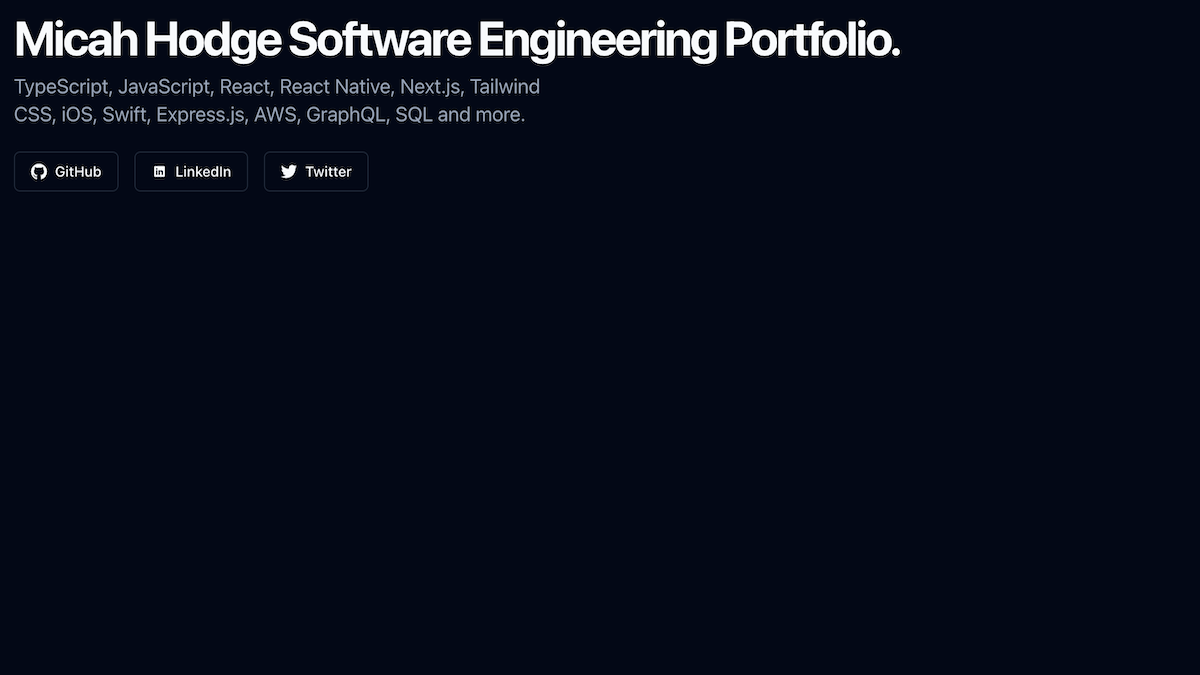
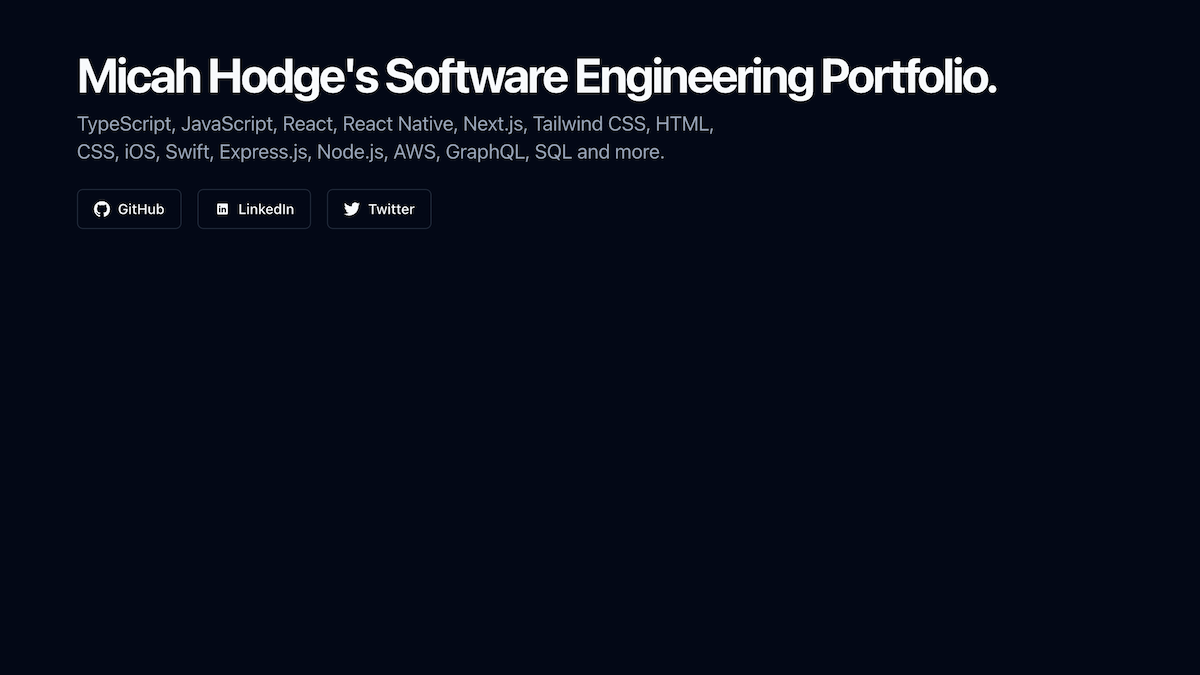
Updating title and og image

Changed region(s): [[0.0, 0.0311, 0.8325, 0.3422]]

diff --git a/src/app/page.tsx b/src/app/page.tsx
@@ -14,10 +14,11 @@ export default function IndexPage() {
   return (
     <main className="container relative">
       <PageHeader className="pb-8">
-        <PageHeaderHeading>Software Engineering Portfolio.</PageHeaderHeading>
+        <PageHeaderHeading>Full-Stack Software Engineering.</PageHeaderHeading>
         <PageHeaderDescription>
           TypeScript, JavaScript, React, React Native, Next.js, Tailwind CSS,
-          iOS, Swift, Express.js, AWS, GraphQL, SQL and more.
+          HTML, CSS, iOS, Swift, Express.js, Node.js, AWS, GraphQL, SQL and
+          more.
         </PageHeaderDescription>
         <div className="flex w-full flex-wrap items-center gap-4 pt-4">
           <Link

diff --git a/src/app/layout.tsx b/src/app/layout.tsx
@@ -23,13 +23,18 @@ export const metadata: Metadata = {
     "React",
     "React Native",
     "Next.js",
+    "Tailwind CSS",
+    "HTML",
     "CSS",
     "iOS",
     "Swift",
     "Express.js",
+    "Node.js",
     "AWS",
     "GraphQL",
     "SQL",
+    "Full Stack Engineer",
+    "Software Engineering",
   ],
   authors: [
     {

diff --git a/src/config/nav.ts b/src/config/nav.ts
@@ -1,6 +1,5 @@
 import { type NavItem, type NavItemWithChildren } from "@/types/nav";
 
-
 interface NavConfig {
   main: NavItem[];
   other: NavItemWithChildren[];
